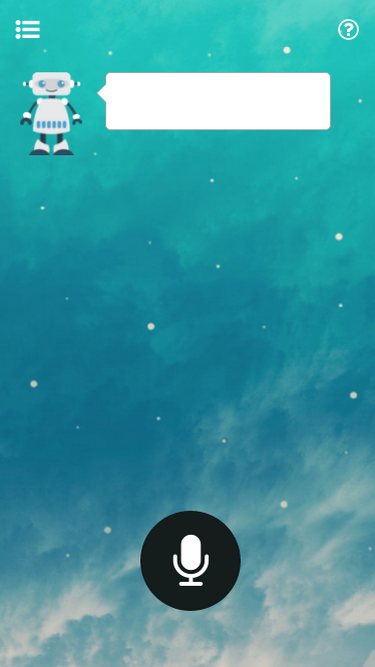
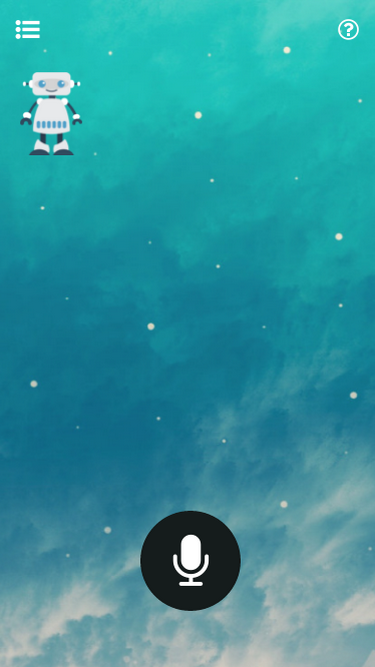
0

Changed region(s): [[0.264, 0.09, 0.88, 0.2099]]

diff --git a/js/mainjs.js b/js/mainjs.js
@@ -210,20 +210,14 @@ var count = 0;
           window.speechSynthesis.speak(msg);
           Start00002("廟宇");
           count = count +1;
-          break;
         }else{
           val = "推薦您以下景點，一 林邊光采濕地、距離43公里，二 海神宮風景區、距離59公里，三 大鵬灣國家風景區、距離45公里";
           msg.text = val;
           window.speechSynthesis.speak(msg);
           Start00002("公園");
-          count = count +1;          
-          break;
+          count = count +1; 
         }
-      
-        
-      case "99902": //模擬 屏東有什麼好玩的 假設人在夢時代
-        
-
+        break;
 			default:
 			  msg.text = val;
 			  window.speechSynthesis.speak(msg);
@@ -231,5 +225,41 @@ var count = 0;
 
       }
 
+      if (val.length <= 3){
+        $('.mwt_border').css({
+          "width": "13%",          
+          "height": "3%"
+        });
+      }else if (val.length <= 6){
+        $('.mwt_border').css({
+          "width": "25%",          
+          "height": "3%"
+        });
+      }else if (val.length <= 10){
+        $('.mwt_border').css({
+          "width": "40%",          
+          "height": "3%"
+        });
+      }else if (val.length <= 14){
+        $('.mwt_border').css({
+          "width": "56%",          
+          "height": "3%"
+        });
+      }else if (val.length <= 28){
+        $('.mwt_border').css({
+          "width": "56%",          
+          "height": "6%"
+        });
+      }else if (val.length <= 42) {
+        $('.mwt_border').css({
+          "width": "56%",  
+          "height": "9%"
+        });
+      }else{
+        $('.mwt_border').css({
+          "width": "56%",          
+          "height": "11%"
+        });
+      }
       $("#spokenResponse").addClass("is-active").find(".spoken-response__text").html(val);//放入回應
     }

diff --git a/js/instruction.js b/js/instruction.js
@@ -10,7 +10,8 @@ function Start00001() {
 	function parsePosition(pos) {
 		//由pos.coords取出latitude及longitude
 		var curLatLng = new google.maps.LatLng(
-			22.431904, 120.515577);
+			pos.coords.latitude, pos.coords.longitude);
+		
 		//創建新地圖
 		var gc = new google.maps.Geocoder();
 		var mymap = new google.maps.Map($('#mymap').get(0), {
@@ -35,7 +36,7 @@ function Start00001() {
 function Start00002(SearchKey) {
 
   navigator.geolocation.getCurrentPosition(function(position) {
-    var currentLocation = {lat: 22.431904, lng: 120.515577};
+    var currentLocation = {lat: position.coords.latitude, lng: position.coords.longitude};
     
     var map = new google.maps.Map(document.getElementById('mymap'), {
       center: currentLocation,
@@ -58,7 +59,7 @@ function Start00002(SearchKey) {
 
     function searchResults(results, status) {
       if (status === google.maps.places.PlacesServiceStatus.OK) {
-        var aims = results.slice(0, 3);
+        var aims = results.slice(0, 5);
         for (var i = 0; i < results.length; i++) {
           aims.forEach(createMarker);
         } 
@@ -411,8 +412,8 @@ function Start00011(SearchKey) {
 	function parsePosition(pos) {
 		//由pos.coords取出latitude及longitude
 		var curLatLng = new google.maps.LatLng(
-      22.431904, 120.515577);
-      open("https://www.google.com.tw/maps/dir/"+22.431904+","+120.515577+"/大潭路加油站",'_self');
+      pos.coords.latitude, pos.coords.longitude);
+      open("https://www.google.com.tw/maps/dir/"+pos.coords.latitude+","+pos.coords.longitude+"/"+SearchKey,'_self');
   }
 }
 

diff --git a/style.css b/style.css
@@ -167,10 +167,48 @@ button.fab{
 /* Derine回應 */
 .spoken-response {
     position: absolute;
-    top:12%;
+    top:12.5%;
     left: 31%;
-    width: 57%;
+    width: 54%;
     height: 8%;
-    font-size: 80%;
+    font-size: 100%;
     color: #000;
+}
+
+/* 對話框 */
+.mwt_border{
+	width:32%;
+	height:3%;
+	text-align:left;
+	background:#fff;
+    position:absolute;
+    left: 25%;
+    top: 9%;
+	border: solid 1px #B9B9B9;
+	margin:10px;
+    padding:10px; 
+    border-radius: 10px;
+    color: #000;
+}
+/*箭頭左*/
+.mwt_border .arrow_l_int{
+	width:0px;
+	height:0px;
+	border-width:15px;
+	border-style:solid;
+	border-color:transparent #B9B9B9 transparent  transparent ;
+	position:absolute;
+	top:15%;
+	left:-22px;
+}
+/*箭頭左-邊框*/
+.mwt_border .arrow_l_out{
+	width:0px;
+	height:0px;
+	border-width:15px;
+	border-style:solid;
+	border-color:transparent #fff transparent transparent ;
+	position:absolute;
+	top:15%;
+    left:-22px;
 }

diff --git a/index.html b/index.html
@@ -13,14 +13,16 @@
 <div class="wrapp">
     <!-- 文字輸入 -->
 	<input id="speech" class="spoken-speech" type="text" placeholder="文字輸入 or 按鈕發話...">
-    <!-- Derine回應 -->
-    <div id="spokenResponse" class="spoken-response">
-      <div class="spoken-response__text">哈囉，我是Derine!</div>
-    </div>
     <!-- 語音按鈕 -->
     <button class="fab" href="#"></button>
     <!-- 送出按鈕 -->
     <button id="btnSend" class="btnSend">送出</button>
+
+    <div id="spokenResponse" class="mwt_border spoken-response">
+        <span class="arrow_l_int"></span>
+        <span class="arrow_l_out"></span>
+        <div class="spoken-response__text">哈囉，我是Derine!</div>
+    </div>
 
 <!-- 地圖功能 -->
     <div id="mymap"></div>
